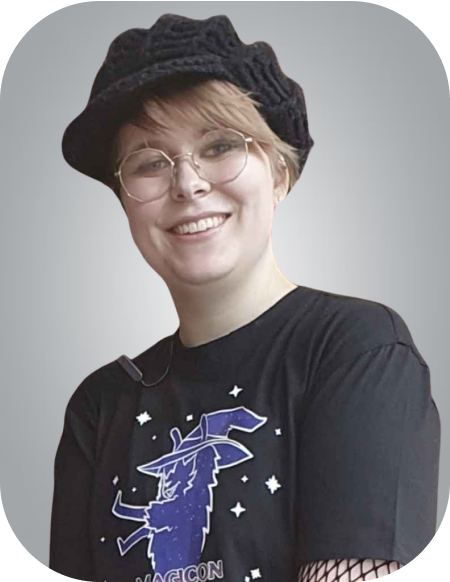
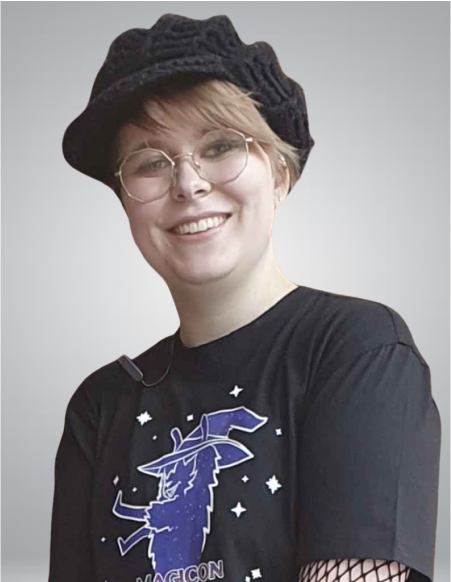
css updated

diff --git a/src/modules/work.module.css b/src/modules/work.module.css
@@ -4,7 +4,7 @@
   max-height: 65vh;
   width: auto;
   height: auto;
-  border-radius: 25%;
+  border-radius: 50px;
   border: #000000 solid;
   box-shadow: 15px 15px 0px rgba(0, 0, 0, 0.866);
   display: block;
@@ -32,7 +32,7 @@
   margin: 40px 0;
 
   /* Background */
-  background-image: url("/public/photos/Background.png");
+  background-image: url("/public/photos/background_flipped.png");
   background-size: cover;
   background-position: center;
   background-repeat: no-repeat;
@@ -44,16 +44,21 @@
   align-items: start;
   justify-content: center;
   flex-direction: column;
+  display: block;
+  margin: auto;
 
   /* Styling */
   background-color: var(--secondary-color);
-  height: 100vh;
-  width: 100%;
-  border-radius: 50px 0 0 50px;
-  padding: 50px;
+  max-width: 40vw;
+  max-height: 65vh;
+  width: auto;
+  height: auto;
+  border-radius: 50px;
+  padding: 20px;
   box-shadow: var(--shadow);
   text-align: left;
   overflow: hidden;
+  box-shadow: 15px 15px 0px rgba(0, 0, 0, 0.866);
 }
 
 h1 {
@@ -69,4 +74,23 @@ span {
 
 .p {
   margin: 15px 0;
+}
+
+.hug {
+  display: flex;
+  align-items: center;
+  justify-content: center;
+  flex-direction: row;
+  object-fit: contain;
+}
+
+.links {
+  display: flex;
+  flex-direction: column;
+  align-items: flex-start;
+  justify-content: flex-start;
+}
+
+.links p {
+  text-decoration: none;
 }

diff --git a/src/Footer.jsx b/src/Footer.jsx
@@ -3,18 +3,22 @@ function Footer() {
   return (
     <>
       <div className={FooterStyle.footer}>
-        <div className={FooterStyle.hug}>
-          <div>
+        <a href="https://www.figma.com/@e29d4a67_e3c6_4">
+          <div className={FooterStyle.hug}>
             <img src="public/photos/logos_figma.png" alt="Figma logo" />
+            <p>Figma</p>
           </div>
-          <a href="https://www.figma.com/@e29d4a67_e3c6_4">Figma</a>
-        </div>
-        <div className={FooterStyle.hug}>
-          <div>
-            <img src="public/photos/mdi_github.png" alt="Github logo" />
+        </a>
+
+        <a href="https://github.com/Hanna-kodehode">
+          <div className={FooterStyle.hug}>
+            <div>
+              <img src="public/photos/mdi_github.png" alt="Github logo" />
+            </div>
+            <p>Github</p>
           </div>
-          <a href="https://github.com/Hanna-kodehode">Github</a>
-        </div>
+        </a>
+
         <div className={FooterStyle.hug}>
           <div>
             <img src="public/photos/ix_e-mail.png" alt="E-mail logo" />

diff --git a/src/Work.jsx b/src/Work.jsx
@@ -20,24 +20,22 @@ function Work() {
           med å lære og utvikle meg!
         </p>
         <span></span>
-        <div>
-          <a href="">
-            <img src="" alt="" />
-            <p>Github</p>
+        <div className={WorkStyle.links}>
+          <a href="https://github.com/Hanna-kodehode">
+            <div className={WorkStyle.hug}>
+              <img src="photos/mdi_github.png" alt="Github Logo" />
+              <p>Github</p>
+            </div>
           </a>
-        </div>
-        <div>
-          <a href="">
-            <img src="" alt="" />
-            <p>Figma</p>
+          <a href="https://www.figma.com/@e29d4a67_e3c6_4">
+            <div className={WorkStyle.hug}>
+              <img src="photos/logos_figma.png" alt="Figma Logo" />
+              <p>Figma</p>
+            </div>
           </a>
         </div>
       </div>
-      <img
-        className={WorkStyle.portrait}
-        src="photos/me background.png"
-        alt="Portrait of me"
-      />
+      <img className={WorkStyle.portrait} src="photos/Apps.png" alt="Apps" />
     </div>
   );
 }

diff --git a/src/modules/nav.module.css b/src/modules/nav.module.css
@@ -66,13 +66,6 @@ nav p {
   color: var(--secondary-color);
 }
 
-#ContactStyle {
-  color: var(--secondary-color);
-  background-color: #000000;
-  border-radius: 5px;
-  max-width: 25wv;
-}
-
 .button2 {
   font-size: 1.25rem;
   background-color: none;
@@ -82,6 +75,13 @@ nav p {
   border: none;
   box-shadow: var(--shadow);
   cursor: pointer;
+  font-family: var(--second-font);
+}
+
+.button2:hover {
+  text-decoration: none;
+  color: #252525;
+  font-family: var(--second-font);
 }
 
 .button1 {
@@ -93,10 +93,14 @@ nav p {
   border: none;
   box-shadow: var(--shadow);
   cursor: pointer;
+  font-family: var(--second-font);
 }
 
 .button1:hover {
   background-color: #393939;
+  text-decoration: none;
+  color: var(--secondary-color);
+  font-family: var(--second-font);
 }
 
 /* On smaller screens */

diff --git a/src/Nav.jsx b/src/Nav.jsx
@@ -7,10 +7,16 @@ function Nav() {
           <img src="public/photos/Logo.png" alt="Logo" />
         </div>
         <div className={NavStyle.navLinks}>
-          <a href="#Home">Heim</a>
-          <a href="#About">Om meg</a>
-          <a href="#Work">Prosjekt</a>
-          <a href="#Contact" id="ContactStyle">
+          <a href="#Home" className={NavStyle.button2}>
+            Heim
+          </a>
+          <a href="#About" className={NavStyle.button2}>
+            Om meg
+          </a>
+          <a href="#Work" className={NavStyle.button2}>
+            Prosjekt
+          </a>
+          <a href="#Contact" className={NavStyle.button1}>
             Get in touch
           </a>
         </div>

diff --git a/src/modules/about.module.css b/src/modules/about.module.css
@@ -4,7 +4,7 @@
   max-height: 65vh;
   width: auto;
   height: auto;
-  border-radius: 25%;
+  border-radius: 50px;
   border: #000000 solid;
   box-shadow: 15px 15px 0px rgba(0, 0, 0, 0.866);
   display: block;

diff --git a/src/modules/home.module.css b/src/modules/home.module.css
@@ -15,6 +15,7 @@
   height: 100vh;
   border-radius: 50px;
   margin: 40px 0;
+  padding: 40px;
   /* background */
   background-image: url("/public/photos/Background_flipped.png");
   background-size: cover;
